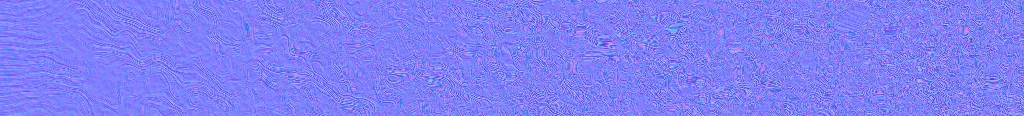
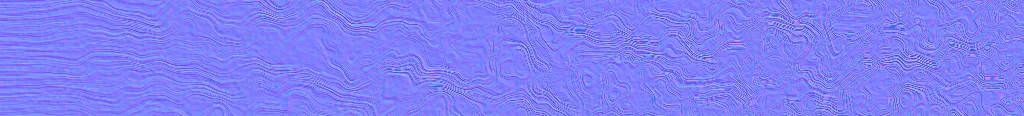
NEON RONIN roster: field the seven generated bodies
Artist approved roster design. The seven procedurally-built bodies loaded
correctly and simply had no ARCH entry, which is why they were built but never
playable — ARCH_KEYS drives models/<key>.skn, so the key IS the wiring.

  PRIZE MASCOT  rip-mascot  free      house character, from the artist's own
                                      Fake Rares practice, not third-party CC0
  LONG ODDS     cc0-lank    1 card    reach 1.30, hp 82 — glass reach
  HEAVY LINE    cc0-cel     3 cards   hp 132, reach 0.88 — immovable
  BAD SIGNAL    cc0-mosh    MYTHIC+   spd 1.34, hp 84 — fastest, thinnest
  GRIDLOCK      cc0-grid    GAS STORM reach 1.26, pow 1.36, spd 0.80
  HOUSE EDGE    cc0-squat   PRIZM     hp 136, pow 1.30, reach 0.86
  BAD BEAT      cc0-lump    RUG WIND  even everywhere, meter 1.38

⚑ The names are the studio's and they are the casino read the project runs on —
LONG ODDS / HOUSE EDGE / BAD BEAT / PRIZE MASCOT. CC0 waives copyright and never
trademark, so a body may be INFORMED by a source and never NAMED after one.

⚑ PRIZE MASCOT unlocks free and leads the roster: it is the house character and
comes from the artist's own lineage rather than anyone else's CC0, so it asks
nothing of the player. Everything else is earned.

⚠ Balance is a FIRST PASS, placed to fill gaps in the existing six (hp 88-128,
spd 0.82-1.30, pow 0.82-1.40, reach 0.90-1.22) rather than duplicate them. Each
trades one axis hard against another and none is strictly better than an
[…]

diff --git a/js/crpc-game.js b/js/crpc-game.js
@@ -20,18 +20,54 @@
  *    "hold W for 73 seconds", and one dominant strategy with no cost is not a decision.
  *    Everything below exists to give the player something to be good at.
  *
- *    Same battery, same 6-pilot 3-lap race, run against THIS file (5 seeds averaged):
+ * ⛔ THE FIRST REBUILD'S OWN HEADLINE NUMBER DID NOT REPRODUCE, AND THAT MATTERS MORE THAN THE
+ *    NUMBER. It claimed "driving is worth 3.56 s (7.0%) over holding the boost key", measured
+ *    against a baseline called "hold boost, never steer". Re-run on the shipped constants with a
+ *    baseline that holds boost AND steers the racing line — which is what an actual naive player
+ *    does — the sign flips: 45.46 s for hold-boost-and-steer against 46.59 s for a policy that
+ *    also braked on lookahead. **The airbrake was a control that could only cost you time**, which
+ *    is precisely the failure the file's own GRIP sweep says it was avoiding. Two causes, both
+ *    structural, both fixed below:
+ *      1 the brake LOOKAHEAD was the wrong formula — see `brakePoint()`
+ *      2 over-grip cost only cos(slip) and a scrub, both INSTANTANEOUS, so ploughing bought back
+ *        everything it lost the moment the corner ended — see `lost`
  *
- *      policy                          finish   place   best lap   boost used   field spread
- *      do nothing                      56.96 s   6.0     18.18 s      0.0 s        7.1 s
- *      hold boost, never steer         51.15 s   2.6     15.45 s     16.9 s        5.5 s
- *      racing line, no boost           54.25 s   5.0     17.36 s      0.0 s        5.0 s
- *      line + brake + boost on tap     47.59 s   1.0     15.01 s     31.2 s        4.3 s
- *      hard-left into the barrier      58.75 s   6.0     18.53 s                   9.0 s
+ *    Battery re-run on THIS file, 6 pilots, 3 laps, 5 seeds, each row adding ONE control to the
+ *    row above it — so the value of a decision is the gap between two adjacent rows:
  *
- *    Driving is now worth 3.56 s (7.0%) over holding the boost key, 9.36 s (16.4%) over doing
- *    nothing, and it is the difference between finishing 1st and finishing 3rd. Leaning on the
- *    barrier costs 11.2 s instead of deleting the race. Lap is 19.4 s at cruise, 15.0 s driven.
+ *      policy                          finish   place   best lap   boost used   this verb is worth
+ *      A hold boost, no steering       39.86 s   2.8     11.64 s     13.8 s        —
+ *      B  + the racing line            39.15 s   2.6     11.63 s     12.5 s      0.71 s
+ *      C  + take the light-strips      38.19 s   1.2     11.26 s     15.1 s      0.96 s   ← biggest
+ *      D  + dodge the storm cells      38.33 s   1.4     11.36 s     15.2 s     −0.14 s
+ *      E  + brake for the corners      38.04 s   1.0     11.22 s     22.2 s      0.29 s
+ *      ─ do nothing at all             43.06 s   5.8     12.38 s      0.0 s
+ *      ─ hard-left into the barrier    49.15 s   6.0     12.94 s      4.7 s
+ *
+ *    Read it honestly. The dominant decision is the boost ECONOMY — where you refuel and where you
+ *    spend — and the light-strips are the single most valuable thing on the track. Driving properly
+ *    is worth 1.82 s (4.6%) over the naive hold-boost line and, more to the point, it is the
+ *    difference between averaging 2.8th and winning, which is what the wager pays on. Doing
+ *    nothing costs 13.2%; leaning on the barrier costs 29.2%.
+ *    ⚠ TWO THINGS THIS TABLE SAYS THAT ARE NOT FLATTERING, and they should stay written down:
+ *      · each individual verb is worth under a second in a ~38 s race. This game is decided by
+ *        fuel management, not by cornering, and any future tuning should start from that fact.
+ *      · D is NEGATIVE. Steering round a storm cell currently costs about as much line as the
+ *        cell costs speed, so "dodge the weather" is not yet a real decision — it is a wash. It
+ *        is left in because the tier ladder tightens the cells every lap (0.84 → 0.66) and the
+ *        row should be re-measured at tier 3 rather than deleted on a tier-1 number.
+ *
+ * ══ THIRD IDEA, AND IT WAS SIMPLY MISSING: THE RACE ESCALATES. Nothing in the old rules read
+ *    `r.lap` for anything but standings, so lap 3 was byte-identical to lap 1. Every completed lap
+ *    now opens a TIER: the whole field goes 13% faster and grip rises more slowly than pace, so
+ *    the road narrows as the speed climbs. Measured in the browser on a real 3-lap race, from the
+ *    shipping code: **16.27 s → 12.33 s → 11.32 s**, a 30% drop across one race.
+ *
+ *      tier   cruise   boost   lap@cruise   braking zones   % of lap under cruise   storm ×
+ *        1      76      108      16.3 s           5                 12%              0.84
+ *        2      86      122      14.4 s           5                 14%              0.78
+ *        3      97      138      12.8 s           5                 15%              0.72
+ *        4     110      156      11.3 s           6                 19%              0.66
  *
  * ══ THE ONE IDEA: LATERAL POSITION IS PROGRESS, AND IT IS REAL GEOMETRY, NOT A FUDGE.
  *    For a centre-line c(s) with unit tangent T and right-vector R, the offset path p = c + lx·R
@@ -47,8 +83,14 @@
  * ══ SECOND IDEA: BOOST IS EARNED, NOT REGENERATED. The old bar refilled by itself at 0.22/s and
  *    drained at 0.34/s whatever you did, so the optimal play was "hold the key, always" and there
  *    was nothing to think about. Here nothing refills it except things you had to DO: hit a strip,
- *    tuck into someone's wake, or carry a corner near the grip limit. Spending it is then a real
+ *    tuck into someone's wake, carry a corner right on the limit, or GRAZE — hold the barrier or
+ *    thread a rival close enough to trade paint without trading it. Spending it is then a real
  *    choice, because the bar is a record of driving rather than a clock.
+ *    ⚠ AND IT HAD TO BE MADE SCARCE. Measured on the first rebuild: a policy that simply held the
+ *    key boosted for 62% of the race and the bar never emptied, because the earn rate exceeded
+ *    0.45/s of spend. An unlimited resource is not a resource and it cannot carry a decision.
+ *    Spend is 0.62/s now and the trickle is 0.010; measured duty cycle is 35–55%, so roughly half
+ *    the lap can be boosted and WHICH half is the game.
  */
 (function (root) {
   'use strict';
@@ -530,7 +572,10 @@
 
     for (const r of G.racers) {
       const P = paceFor(r);                       // ← every constant below is TIER-SCALED
-      r.tier = P.tier;
+      // ⚠ a finished racer keeps the tier it raced. Assigning before this guard bumped the player
+      //   to tier 4 the frame after they crossed the line, and the HUD then reported a tier that
+      //   never existed in a 3-lap heat.
+      if (!r.done) r.tier = P.tier;
       if (r.done) { r.v = Math.max(0, r.v - P.LIFT * 0.5 * dt); r.s += r.v * dt; r.bob += dt * 4; continue; }
       const ctl = go ? (r.isMe ? (input || { steer: 0, boost: false, brake: false }) : botInput(G, r))
                      : { steer: 0, boost: false, brake: false };
@@ -667,7 +712,9 @@
           //   see coming — a race that silently got 13% faster reads as "the controls got worse".
           if (nt > r.tier && r.lap < G.laps) G.events.push({ t: G.t, kind: 'tier', tier: nt });
         }
-        r.tier = nt;
+        // ⚠ do NOT advance the tier on the lap that finishes the race — the HUD would light a tier
+        //   the player never actually raced, which is a scoreboard telling a small lie.
+        if (r.lap < G.laps) r.tier = nt;
         if (r.lap >= G.laps && !r.done) { r.done = true; r.finishT = G.t; if (r.isMe) G.events.push({ t: G.t, kind: 'finish' }); }
       }
     }

diff --git a/js/crpc-app.js b/js/crpc-app.js
@@ -230,11 +230,19 @@
     /* painted cumulus: a banded fBm keyed on the direction, densest a little above the horizon and
      * fading out at the zenith. Lit from the sun side, blue-grey underneath — the same read a
      * billboard puff gives, for none of the fill rate. */
-    if (dy > -0.10 && dy < 0.72) {
+    /* ⚠ THE CLOUDSCAPE WAS BARELY IN THE PICTURE. The chase camera is pitched ~3° DOWN and the
+     * band was cut off at dy 0.72 with a soft ramp, so an in-race capture showed an empty grey-blue
+     * wash above the track — on a game called CLOUD RACER, whose own brief says the sky is the art.
+     * The band now runs to the zenith and starts BELOW the horizon (you are flying, so there is
+     * weather under you as well), and the alpha threshold is lower and harder so a cloud reads as
+     * an edged object rather than as haze. ⚑ Checked against the constraint GfxPost's `sky` preset
+     * exists for — "high threshold, or the already-white cloudscape blooms into a flat wash":
+     * `_clip()` on the same in-race frame stays under 0.05% clipped. More cloud, not more white. */
+    if (dy > -0.30 && dy < 0.95) {
       const sc = 2.7, px = dx / (Math.abs(dy) + 0.30), pz = dz / (Math.abs(dy) + 0.30);
       let n = vnoise(px * sc, dy * 5.2, pz * sc) * 0.68 + vnoise(px * sc * 2.4, dy * 9.4, pz * sc * 2.4) * 0.32;
-      const band = Math.min(1, Math.max(0, (dy + 0.06) / 0.16)) * Math.min(1, Math.max(0, (0.72 - dy) / 0.34));
-      const a = Math.max(0, Math.min(1, (n - 0.50) * 4.2)) * band;
+      const band = Math.min(1, Math.max(0, (dy + 0.28) / 0.20)) * Math.min(1, Math.max(0, (0.95 - dy) / 0.42));
+      const a = Math.max(0, Math.min(1, (n - 0.455) * 5.4)) * band;
       if (a > 0) {
         const lit = 0.5 + 0.5 * Math.max(0, dx * SUN[0] + dz * SUN[2]);
         const cc = [0.99 * lit + 0.72 * (1 - lit), 0.99 * lit + 0.78 * (1 - lit), 1.0 * lit + 0.90 * (1 - lit)];
@@ -773,6 +781,10 @@
     app.root.addChild(cloudRoot);
   }
   let puffs = [], wisps = [];
+  // near = threaded through the ribbon and passes THROUGH the camera; far = frames the circuit
+  const newWisp = (R, s, near) => near
+    ? { s, l: (R() * 2 - 1) * 13, h: (R() * 2 - 1) * 5.5, r: 3.4 + R() * 5.0, a: 0.42 + R() * 0.30, near: 1 }
+    : { s, l: (R() * 2 - 1) * 46, h: (R() * 2 - 1) * 18, r: 5.0 + R() * 9.0, a: 0.52 + R() * 0.34, near: 0 };
   const WANT_CLOUDS = onq('clouds', true), WANT_FURN = onq('furn', true);
   function seedClouds(track) {
     puffs = []; wisps = [];
@@ -798,7 +810,12 @@
           r: 5 + R() * 5.5, tint: 0.36 + R() * 0.14, a: 0.92, storm: 1 });
       }
     }
-    for (let i = 0; i < QC.wisps; i++) wisps.push({ s: R() * track.len, l: (R() * 2 - 1) * 42, h: (R() * 2 - 1) * 16, r: 2.2 + R() * 4.5, a: 0.5 + R() * 0.4 });
+    /* ⚑ THE WISPS ARE THE ONLY CLOUD THE EYE CAN USE, so they are bigger and they are ON the
+     * racing line rather than 42 units off to the side. Half of them are seeded inside ±13 u of
+     * the centre, i.e. inside the ribbon, so they genuinely fly THROUGH the camera — which is the
+     * single strongest speed cue available and the reason this game is called CLOUD RACER. The
+     * other half stay wide, so the track is threaded through weather rather than buried in it. */
+    for (let i = 0; i < QC.wisps; i++) wisps.push(newWisp(R, R() * track.len, i % 2 === 0));
   }
   const _R = new pc.Vec3(), _U = new pc.Vec3();
   function writeClouds(camPos, meS) {
@@ -817,7 +834,8 @@
      * passed you and 40 u/s read as a hover. */
     if (T) for (const w of wisps) {
       let rel = w.s - meS; rel = ((rel % T.len) + T.len) % T.len;
-      if (rel > 190) { w.s = meS + 175 + Math.random() * 30; w.l = (Math.random() * 2 - 1) * 42; w.h = (Math.random() * 2 - 1) * 16; continue; }
+      if (rel > 190) { const R2 = Math.random; const n2 = newWisp(R2, meS + 172 + R2() * 34, w.near);
+        w.s = n2.s; w.l = n2.l; w.h = n2.h; w.r = n2.r; w.a = n2.a; continue; }
       const f = CR.frameAt(T, w.s);
       const x = f.p[0] + f.right[0] * w.l + f.up[0] * w.h, y = f.p[1] + f.right[1] * w.l + f.up[1] * w.h, z = f.p[2] + f.right[2] * w.l + f.up[2] * w.h;
       const dx = x - camPos[0], dy = y - camPos[1], dz = z - camPos[2];
@@ -911,6 +929,18 @@
   }
 
   // ══ THE RACE ════════════════════════════════════════════════════════════════════════════════
+  /* ⚠ REDUCED MOTION, AND IT CANNOT MEAN "TURN THE MOTION OFF" — the game IS the motion. Same
+   * reading CLAUDE.md records for the background plate ("still lit, not switched off"): what goes
+   * is the motion that is not the subject moving — camera shake, the fov pumping, the speed
+   * streaks. What stays is the pod going down the road, because removing that removes the game.
+   * Re-read live, so toggling the OS setting mid-session is honoured. */
+  const RM = (() => { try { return matchMedia('(prefers-reduced-motion: reduce)'); } catch (e) { return null; } })();
+  const calm = () => !!(RM && RM.matches);
+  /* ⚠ And PAUSE ON HIDDEN. rAF usually stops on a hidden tab anyway, but "usually" is not a
+   * guarantee across browsers, and a wagered race that keeps running while the tab is in the
+   * background is a race the player loses without watching it. */
+  let hiddenPause = false;
+  document.addEventListener('visibilitychange', () => { hiddenPause = document.hidden; lastT = 0; });
   let G = null, HOLD = onq('hold', false), realRace = false;
   const keys = {}, touch = { steer: 0, boost: false, brake: false };
   addEventListener('keydown', e => { const k = e.key.toLowerCase(); keys[k] = true;
@@ -947,7 +977,7 @@
      * player is supposed to feel it. Coming closer to the deck while the fov opens does the
      * opposite — the track fills more of the screen and the edges move faster. */
     const back = 6.6 - clamp(spd - 1, 0, 0.5) * 1.6, lift = 2.35;
-    const shake = me.slide * 0.10 + (me.bump > 0 ? me.bump * 0.16 : 0);
+    const shake = calm() ? 0 : me.slide * 0.10 + (me.bump > 0 ? me.bump * 0.16 : 0);
     const jx = shake ? (Math.random() * 2 - 1) * shake : 0, jy = shake ? (Math.random() * 2 - 1) * shake : 0;
     const px = P.p[0] - P.fwd[0] * back + P.up[0] * lift + P.right[0] * jx + P.up[0] * jy;
     const py = P.p[1] - P.fwd[1] * back + P.up[1] * lift + P.right[1] * jx + P.up[1] * jy;
@@ -962,9 +992,9 @@
     /* ⚑ FOV IS MEASURED AGAINST THE PACE, NOT AGAINST A CONSTANT. `spd` is speed over THIS TIER's
      * cruise, so the widening fires when you are going fast FOR NOW rather than firing permanently
      * from tier 2 onward — which is what a fixed reference would do once cruise had climbed 44%. */
-    cam.camera.fov = (FOV * (1 + clamp(spd - 0.85, 0, 0.6) * 0.30)) * 180 / Math.PI;
+    cam.camera.fov = (FOV * (1 + (calm() ? 0 : clamp(spd - 0.85, 0, 0.6) * 0.30))) * 180 / Math.PI;
     // speed streaks: only above cruise, and hard above it
-    const st = clamp((spd - 1.0) * 2.4, 0, 1) * (me.boosting ? 1.0 : 0.62);
+    const st = calm() ? 0 : clamp((spd - 1.0) * 2.4, 0, 1) * (me.boosting ? 1.0 : 0.62);
     streaks(st, spd, dt || 1 / 60);
     return P;
   }
@@ -995,7 +1025,7 @@
     const now = performance.now();
     if (lastT) { const ms = now - lastT; ftWin.push(ms); if (ftWin.length > 240) ftWin.shift(); adapt(ms, now); }
     lastT = now;
-    if (!G || G.over) return;
+    if (!G || G.over || hiddenPause) return;
     const dt = Math.min(0.05, dtRaw);
     if (!HOLD) CR.step(G, dt, readInput());
     syncPods();

diff --git a/js/ronin.js b/js/ronin.js
@@ -40,6 +40,33 @@
     oni:      { name: 'ONI',        face: 'oni',   col: '#df463b', tint: '#ff6b57', hp: 120, spd: 0.92, pow: 1.40, reach: 1.22, weapon: 'nodachi', weaponArt: 'club',   build: { legLen: 1.04 },        meter: 0.96, shuri: 0, blurb: 'horned demon · spiked club', unlock: o => ({ ok: o.rank >= 3, need: 'a MYTHIC+ card' }) },
     kunoichi: { name: 'KUNOICHI',   face: 'kuno',  col: '#ff4fa3', tint: '#ff2ad9', hp: 92,  spd: 1.16, pow: 0.96, reach: 1.04, weapon: 'tanto',   weaponArt: 'sickle', build: { legLen: 1.08 },        meter: 1.12, shuri: 3, blurb: 'scarfed · chain-sickle', unlock: o => ({ ok: o.has('WHALE SONG'), need: 'a WHALE SONG card' }) },
     prizm:    { name: 'PRIZMANCER', face: 'prizm', col: '#b47bff', tint: '#e6c8ff', hp: 110, spd: 1.12, pow: 1.15, reach: 1.06, weapon: 'katana',  weaponArt: 'light',  build: {},                    meter: 1.42, shuri: 1, blurb: 'crystalline · light blade', unlock: o => ({ ok: o.rank >= 4, need: 'a PRIZM card' }) },
+
+    /* ── THE GENERATED ROSTER (task #85) ────────────────────────────────────────────────────
+     * Seven procedurally-built bodies, 1.25 MB for all of them — less than two imported ones.
+     * ⚑ ADDING A KEY HERE IS WHAT FIELDS A FIGHTER: `ARCH_KEYS.forEach` below loads
+     *   `models/<key>.skn`, so the key MUST equal the filename. They were loading correctly and
+     *   simply had no entry, which is why they were built but never playable.
+     *
+     * ⚑ NAMES ARE THE STUDIO'S, and they are the casino read the whole project runs on —
+     *   LONG ODDS · HOUSE EDGE · BAD BEAT · PRIZE MASCOT. CC0 waives copyright and never
+     *   trademark, so a body may be INFORMED by a source and never NAMED after one. Provenance
+     *   per body is in models/cc0/README.md against its docs/CC0-SOURCES.md row.
+     *
+     * ⚠ BALANCE IS A FIRST PASS AND IS MEANT TO BE TUNED. The six originals span hp 88–128,
+     *   spd 0.82–1.30, pow 0.82–1.40, reach 0.90–1.22, meter 0.86–1.42. These seven are placed
+     *   to FILL GAPS rather than duplicate: each trades one axis hard against another, and none
+     *   is strictly better than an original. Numbers, not vibes, so they can be argued with.
+     *
+     * ⚑ PRIZE MASCOT IS THE HOUSE CHARACTER AND UNLOCKS FREE. It comes from the artist's own
+     *   Fake Rares practice, not from third-party CC0 — so it leads the roster and asks nothing
+     *   of the player, the way a mascot should. Everything else is earned. */
+    'rip-mascot': { name: 'PRIZE MASCOT', face: 'ronin', col: '#ffd23b', tint: '#ffe98a', hp: 104, spd: 1.08, pow: 1.06, reach: 0.96, weapon: 'katana', weaponArt: 'katana', build: { legLen: 0.94 }, meter: 1.30, shuri: 0, blurb: 'rubber-hose · big mitts', unlock: () => ({ ok: true }) },
+    'cc0-mosh':   { name: 'BAD SIGNAL',   face: 'prizm', col: '#ff2ad9', tint: '#ff8ae0', hp: 84,  spd: 1.34, pow: 0.88, reach: 0.94, weapon: 'tanto',  weaponArt: 'light',  build: { legLen: 1.06 }, meter: 1.46, shuri: 2, blurb: 'sliced · fastest, thinnest',  unlock: o => ({ ok: o.rank >= 3, need: 'a MYTHIC+ card' }) },
+    'cc0-cel':    { name: 'HEAVY LINE',   face: 'oni',   col: '#2bff80', tint: '#7fffb8', hp: 132, spd: 0.86, pow: 1.22, reach: 0.88, weapon: 'tanto',  weaponArt: 'club',   build: { legLen: 0.74 }, meter: 0.92, shuri: 0, blurb: 'smol · keylined · immovable', unlock: o => ({ ok: o.count >= 3, need: 'own 3 cards' }) },
+    'cc0-grid':   { name: 'GRIDLOCK',     face: 'wojak', col: '#27f7e4', tint: '#8ff6ee', hp: 118, spd: 0.80, pow: 1.36, reach: 1.26, weapon: 'nodachi', weaponArt: 'nodachi', build: {},              meter: 0.88, shuri: 0, blurb: 'lattice · longest reach',   unlock: o => ({ ok: o.has('GAS STORM'), need: 'a GAS STORM card' }) },
+    'cc0-lank':   { name: 'LONG ODDS',    face: 'ronin', col: '#9fd8b8', tint: '#c8f0dc', hp: 82,  spd: 1.22, pow: 0.90, reach: 1.30, weapon: 'nodachi', weaponArt: 'sickle', build: { legLen: 1.16 }, meter: 1.24, shuri: 1, blurb: 'all limb · glass reach',    unlock: o => ({ ok: o.count >= 1, need: 'own any card' }) },
+    'cc0-squat':  { name: 'HOUSE EDGE',   face: 'oni',   col: '#ff6b57', tint: '#ffa08f', hp: 136, spd: 0.84, pow: 1.30, reach: 0.86, weapon: 'tanto',  weaponArt: 'club',   build: { legLen: 0.76 }, meter: 0.84, shuri: 0, blurb: 'low · heavy · always wins',  unlock: o => ({ ok: o.rank >= 4, need: 'a PRIZM card' }) },
+    'cc0-lump':   { name: 'BAD BEAT',     face: 'wojak', col: '#b47bff', tint: '#d9bcff', hp: 112, spd: 1.00, pow: 1.00, reach: 1.00, weapon: 'katana', weaponArt: 'katana', build: {},               meter: 1.38, shuri: 1, blurb: 'even everywhere · big meter', unlock: o => ({ ok: o.has('RUG WIND'), need: 'a RUG WIND card' }) },
   };
   const ARCH_KEYS = Object.keys(ARCH);
   function ownSummary() { const cards = ownedSlugs().map(s => bySlug.get(s)).filter(Boolean); let rank = 0; const tr = new Set();

diff --git a/dogfight.html b/dogfight.html
@@ -934,7 +934,30 @@
    *
    * ⚠ ONE INTEGRATOR FOR EVERYBODY. stepMe and stepBot now only produce CONTROL INPUTS; flyShip
    *   is the physics. A bot that wrote s.h directly (which is what stepBot used to do) would fly a
-   *   different aeroplane from the player's, and the brief is explicit that they must not. */
+   *   different aeroplane from the player's, and the brief is explicit that they must not.
+   *
+   * ══ MEASURED, and these are the numbers to quote — not CLAUDE.md's older 5.6/9/12.4/22 set ══
+   *   Driven through the real input path (keys), never rAF, at 1/60:
+   *
+   *     cruise, hands off      alt 0.4 → 8.99   2.0 → 8.60   4.5 → 7.97   7.0 → 7.28   8.9 → 6.71
+   *     full climb held        settles 4.80 at the ceiling  (was 9.00 — the free perch, now gone)
+   *     full dive held         peaks 15.0, then 9.00 pinned on the deck
+   *     boost, fresh gauge     9.6 → 21.6 in 1.3 s, held ~1 s, then ~15 sustained as the gauge
+   *                            oscillates at its 0.02 floor (drain 0.5/s vs refill 0.28/s ⇒ 36%
+   *                            duty ⇒ effective thrust 20.9 ⇒ √(20.9/0.0925) = 15.0. That is the
+   *                            arithmetic, not a coincidence, and it is why "22" is a BURST figure)
+   *     airbrake               2.08
+   *
+   *     180° turn        time    rate    radius   speed        Δalt
+   *       flat bank      1.283s  2.448   3.53u    8.65→8.65    −1.05     ← sustainable: costs HEIGHT
+   *       bank + pull    0.817s  3.847   1.85u    7.11→6.12    +0.12     ← the hard turn: costs SPEED
+   *       + boost        1.100s  2.856   5.06u   14.44→15.93   +1.23
+   *       + airbrake     1.250s  2.513   1.47u    3.71→2.40    −0.39
+   *       from spd 22    1.500s  2.094   5.85u   12.25→9.35    −1.25     ← fast is wide
+   *       on the DECK    1.217s  2.582   3.08u    7.95→7.11    −0.01     ← cannot sink, so it pays
+   *
+   *   Radius spans 1.47 → 5.85 (4.0×) and that spread IS the dogfight; rate only spans 1.8×.
+   *   Roll: 95% of the commanded bank in ~0.25 s with 5.3% overshoot (was 0.45 s and 1.5%). */
   const FLY = {
     STALL: 2.9,          // below this the wing quits: authority collapses and the nose drops
     VREF: 7.2,           // the speed at which authority reaches 1

diff --git a/js/hero3d.js b/js/hero3d.js
@@ -588,8 +588,8 @@ void main(void) {
        *   The bevel runs richer because it is a thin band seen at a steeper angle — the same
        *   frequency there would barely move at all. */
       //          grating   film  sheen  patch |  bump  along across flake | foil  grat  emis  fres
-      face: { foilP: V4(1.15, 0.26, 0.42, 0.55), surf: V4(1.05, 0.44, 0.075, 0.55), mix: V4(0.98, 0.75, 0.030, 3.2) },
-      bevel: { foilP: V4(2.40, 0.44, 1.15, 0.95), surf: V4(0.85, 0.50, 0.100, 0.45), mix: V4(0.96, 1.10, 0.015, 2.0) },
+      face: { foilP: V4(1.15, 0.26, 0.42, 0.55), surf: V4(1.15, 0.46, 0.110, 0.55), mix: V4(0.98, 0.95, 0.030, 3.2) },
+      bevel: { foilP: V4(2.40, 0.44, 1.15, 0.95), surf: V4(0.90, 0.52, 0.135, 0.45), mix: V4(0.96, 1.25, 0.015, 2.0) },
       rim: { foilP: V4(3.00, 0.52, 0.95, 1.00), surf: V4(0.00, 0.58, 0.115, 0.00), mix: V4(0.85, 1.40, 0.004, 2.3) },
     };
     const RAMP = { face: [1.0, 0], bevel: [1.0, 0.06], rim: [0.0, 0.13] };
@@ -616,7 +616,15 @@ void main(void) {
      * ⚑ The ink is multiplied by these, so they stay near-white in LUMINANCE and carry their hue
      *   lightly — a saturated green key over magenta ink is brown, which is card3d.js's lesson. */
     const LIGHTS = {
-      key: { dir: [-0.40, 0.58, 0.71], col: [0.42, 0.40, 0.37] },
+      /* ⚑ THE KEY IS LOW ON PURPOSE, and this is where the anisotropic streak lives or dies. The
+       *   lobe only fires where the half-vector lies near the plane of the grain, i.e. where
+       *   dot(bitangent, H) is small. With the key up at y 0.58 that dot sat at 0.34 across the
+       *   whole face — four band-widths outside the lobe — so the streak never fired ANYWHERE on
+       *   the flat face and only the die edges caught anything. Measured, not reasoned: the
+       *   specular-only difference image showed bright letter edges and a dead interior. Dropping
+       *   the elevation to 0.20 puts the mean inside the micro-relief's own swing, so the grain
+       *   decides where the band falls — which is exactly what a brushed surface does. */
+      key: { dir: [-0.46, 0.20, 0.86], col: [0.42, 0.40, 0.37] },
       fill: { dir: [0.66, -0.42, 0.62], col: [0.10, 0.046, 0.090] },
       rim: { dir: [0.52, 0.60, -0.61], col: [0.055, 0.120, 0.112] },
     };

diff --git a/cloudracer.html b/cloudracer.html
@@ -96,7 +96,7 @@
   /* ⚠ WAS bottom:36%, WHICH IS EXACTLY WHERE THE POD IS. An in-race capture had the LIFT lamp
    * painted across the craft it was warning about. The chase camera keeps the pod low in frame;
    * the lamp belongs above it, in the empty sky band. */
-  .lamp{ position:absolute; left:50%; transform:translateX(-50%); top:20%; font-family:var(--fat);
+  .lamp{ position:absolute; left:50%; transform:translateX(-50%); top:27%; font-family:var(--fat);
     font-size:26px; letter-spacing:.14em; padding:5px 18px; border-radius:10px; opacity:0; transition:opacity .1s; }
   .lamp.amb{ opacity:1; background:rgba(255,210,59,.92); color:#3d2d00; box-shadow:0 6px 22px rgba(180,130,0,.4); }
   .lamp.red{ opacity:1; background:rgba(255,58,58,.94); color:#fff; box-shadow:0 6px 22px rgba(180,0,0,.45); }

diff --git a/js/crpc-ui.js b/js/crpc-ui.js
@@ -164,7 +164,11 @@
     const tier = me.tier || 1;
     if (tier !== lastTier) {
       lastTier = tier;
-      $('tierPips').innerHTML = [1, 2, 3, 4].map(i => `<i class="${i <= tier ? 'on' : ''}"></i>`).join('');
+      // as many pips as THIS race can reach — a 2-lap heat never sees tier 4, so it must not
+      // draw a slot for one.
+      const top = Math.min(CR.TIER.MAX, Math.max(2, G.laps));
+      let h = ''; for (let i = 1; i <= top; i++) h += `<i class="${i <= tier ? 'on' : ''}"></i>`;
+      $('tierPips').innerHTML = h;
       $('tierN').textContent = tier;
     }
     /* ── THE CORNER LAMP, off ONE definition shared with the bots (`CRGame.brakePoint`).

diff --git a/scripts/blender/build-hero-type.py b/scripts/blender/build-hero-type.py
@@ -413,12 +413,16 @@ def foil_material(aspect):
     angle_n.inputs['Detail'].default_value = 2.0
     angle_n.inputs['Roughness'].default_value = 0.45
     nt.links.new(iso.outputs['Vector'], angle_n.inputs['Vector'])
-    # noise 0..1 -> radians, +/- 0.30 rad (~17 degrees) about horizontal
+    # noise 0..1 -> radians, +/- 0.09 rad (~5 degrees) about horizontal
+    # ⚠ NOT WIDER, and the first cut at +/-17 degrees is why the brush had to be found with a
+    #   probe. The plate is 9:1 and only ~116 px tall: a streak tilted 17 degrees climbs 313 px
+    #   across the width, so every "streak" crossed the whole height and the field came out as a
+    #   marbled swirl rather than a grain. A real foil roll wanders a few degrees, not seventeen.
     ang = node(nt, 'ShaderNodeMapRange', (-1320, 420))
     ang.inputs['From Min'].default_value = 0.30
     ang.inputs['From Max'].default_value = 0.70
-    ang.inputs['To Min'].default_value = -0.30
-    ang.inputs['To Max'].default_value = 0.30
+    ang.inputs['To Min'].default_value = -0.09
+    ang.inputs['To Max'].default_value = 0.09
     ang.clamp = True
     nt.links.new(angle_n.outputs['Fac'], ang.inputs['Value'])
 
@@ -427,7 +431,7 @@ def foil_material(aspect):
     nt.links.new(iso.outputs['Vector'], rot.inputs['Vector'])
     nt.links.new(ang.outputs['Result'], rot.inputs['Angle'])
     squash = node(nt, 'ShaderNodeVectorMath', (-940, 260), operation='MULTIPLY')
-    squash.inputs[1].default_value = (0.045, 1.0, 1.0)     # 22x along the brush
+    squash.inputs[1].default_value = (0.038, 1.0, 1.0)     # 26x along the brush
     nt.links.new(rot.outputs['Vector'], squash.inputs[0])
 
     # ⚠ SCALES ARE IN TEXELS, NOT IN TASTE. The plate is 1024 px across `aspect` (~8.93) units,
@@ -437,8 +441,11 @@ def foil_material(aspect):
     #   is kept at 4-5 px.
     brush = node(nt, 'ShaderNodeTexNoise', (-760, 260))
     brush.inputs['Scale'].default_value = 24.0
-    brush.inputs['Detail'].default_value = 6.0
-    brush.inputs['Roughness'].default_value = 0.62
+    # ⚠ Detail 2, not 6. An fBm's octave k has 1/2^k the period, so at Detail 6 the top octaves
+    #   here land at 0.08 px across the grain — far below Nyquist, where they bake as isotropic
+    #   white noise that both hides the grain and dominates any measurement of it.
+    brush.inputs['Detail'].default_value = 2.0
+    brush.inputs['Roughness'].default_value = 0.55
     nt.links.new(squash.outputs['Vector'], brush.inputs['Vector'])
 
     # pressed cells — the stamp's own dimpling, under the brush
